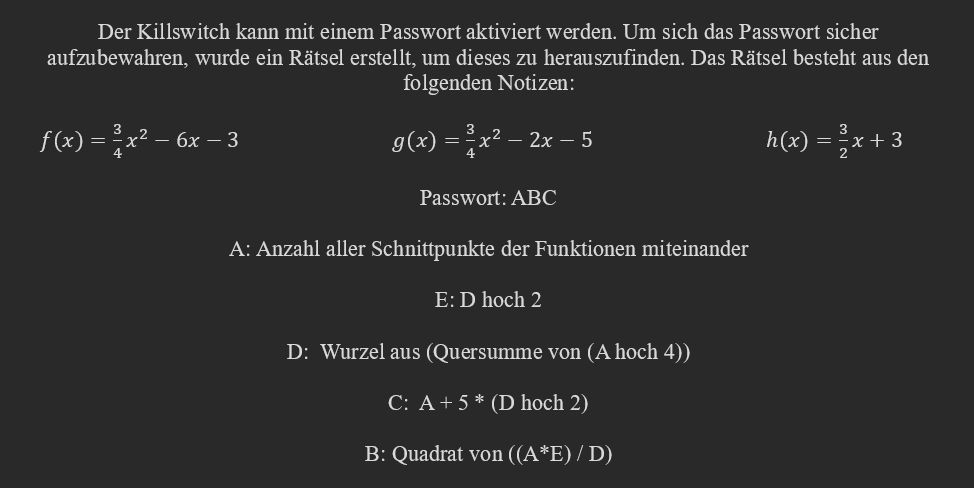
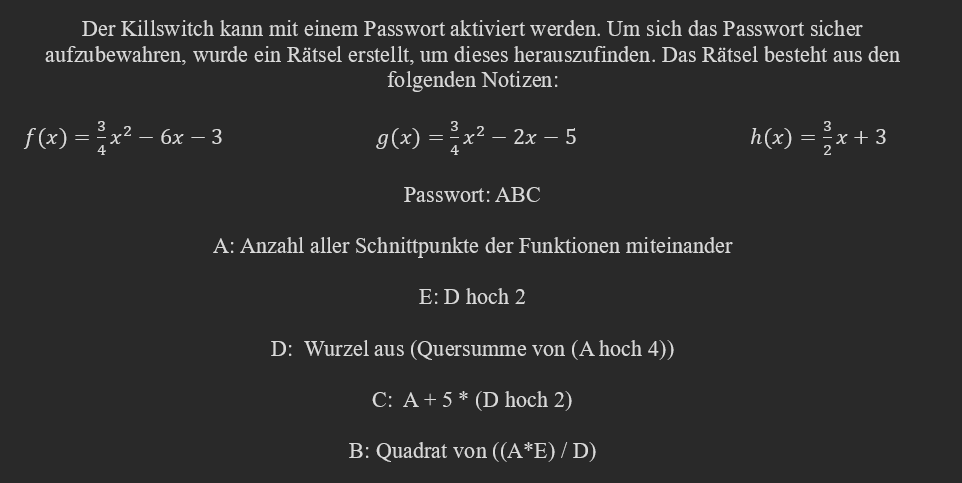
- Armin hitbox fixed + start fixed

diff --git a/static/html/satellit_zugriff.html b/static/html/satellit_zugriff.html
@@ -41,7 +41,7 @@
                     <div class="dashboard_element center_flex" style="background-color: rgba(255, 255, 255, 0.171);">Toggle Killswitch</div>
                     <div class="dashboard_element center_flex">
                         <input type="text" class="form-control password" id="password" placeholder="Password" required>
-                        <button class="btn btn-success btn-md btn-block btn-toggle_pop" style="margin-left: 10px;"><i class="fa fa-question" style="width: 25px;" onclick="showAssignment()"></i></button>
+                        <button class="btn btn-success btn-md btn-block" style="margin-left: 10px;"  onclick="showAssignment()"><i class="fa fa-question" style="width: 25px;"></i></button>
                         <button class="btn btn-success btn-md btn-block" id="submit_password" style="margin-left: 10px;" onclick="">Disable</button>
                     </div>
                     <div class="dashboard_element center_flex">Total infections: 485900453</div>
@@ -64,7 +64,7 @@
                 Der Killswitch kann mit einem Passwort aktiviert werden. Um sich das Passwort  <br> sicher aufzubewahren, wurde ein Rätsel erstellt, um dieses zu berechnen. Das Rätsel besteht aus den folgenden Notizen:
             </div> -->
             <div class="" >
-                <img src="../../assets/img/armin.png" style="width: 100%; height: 420px; margin: 30px 0 30px 20px">
+                <img src="../../assets/img/armin.png" style="width: 100%; height: 420px; margin: 30px 0 30px 25px">
             </div>
         </div>
     </section>

diff --git a/static/js/controller/start.js b/static/js/controller/start.js
@@ -5,9 +5,11 @@ const ASSIGNMENT_BOX    = document.querySelector("#start_assignments")
 const TYPE              = "start"
 
 var tip_type = ""
-
-if(localStorage.getItem("current") !== "c3RhcnQ=" && localStorage.getItem("current") !== "" ) console.log("a")
+if(localStorage.getItem("current") === null) localStorage.setItem("current", "c3RhcnQ=")
+else if(localStorage.getItem("current") !== "c3RhcnQ=" && localStorage.getItem("current") !== "" ) console.log("a")
 else localStorage.setItem("current", "c3RhcnQ=")
+
+localStorage.setItem("verify_firewalls", JSON.stringify([ false, false ]))
 
 
 function closeContent() {

diff --git a/static/js/utils/auth.js b/static/js/utils/auth.js
@@ -36,7 +36,7 @@ async function verifyPassword(type) {
 
     if(!localStorage?.getItem("verify_firewalls")) {
         localStorage.setItem("verify_firewalls", JSON.stringify([ false, false ]))
-    }
+    } 
 
     if(type === "first_firewall" || type === "second_firewall") {
         input = getInput()

diff --git a/static/js/controller/satellit_zugriff.js b/static/js/controller/satellit_zugriff.js
@@ -4,8 +4,7 @@ const TYPE       = "satellit_zugriff"
 localStorage.setItem("current", "c2F0ZWxsaXRfenVncmlmZg==")
 
 function showAssignment() {
-    console.log("Showing assignment")
-    POP_UP_BIG.style.display = "block"
+    toggleElement(POP_UP_BIG)
     toggleElement(backscreen)
 }
 
